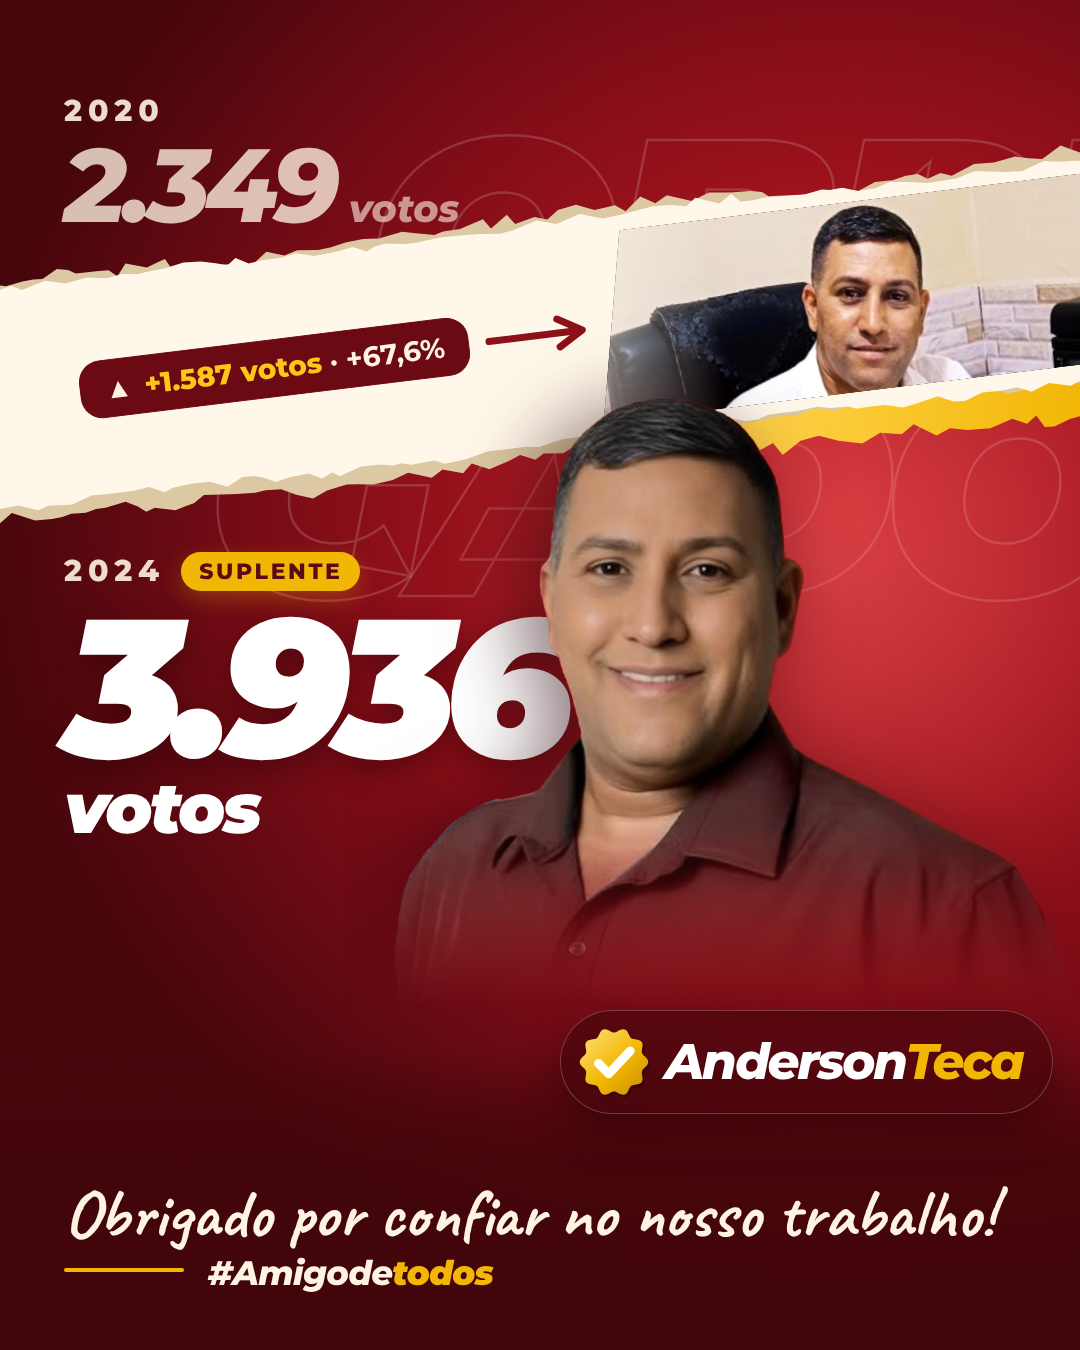
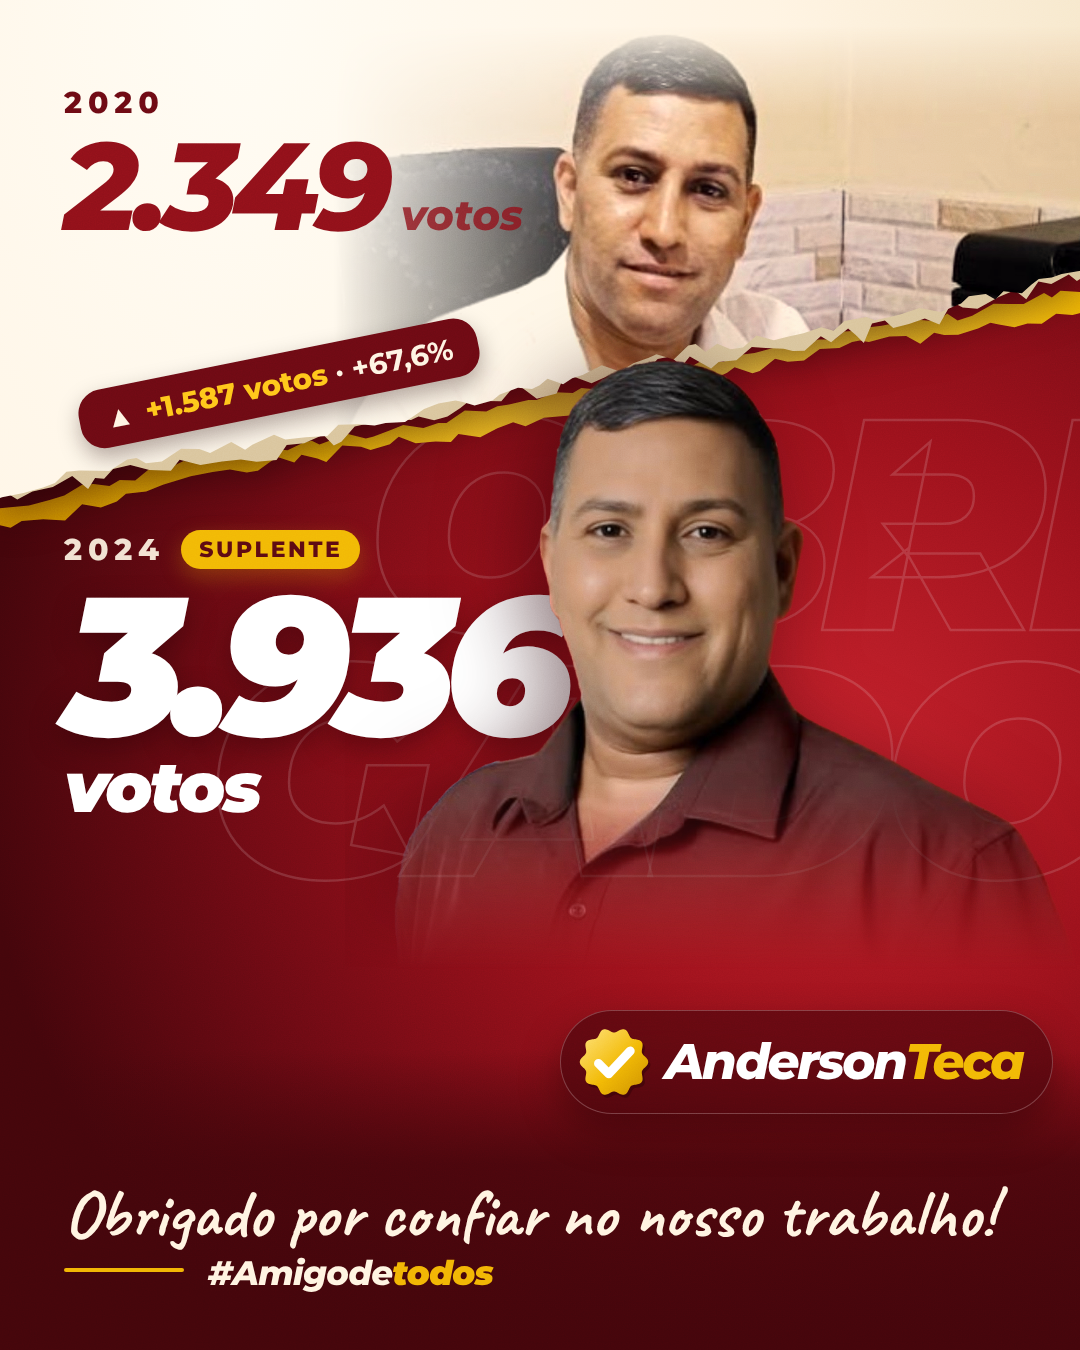
Anderson Teca v6: corte diagonal divide 2020 (papel) e 2024 (vinho), foto de 2020 esfumaçada
Claude-Session: https://claude.ai/code/session_01Y4FBjftjKYjL6a6dxycj4C

diff --git a/artes-clientes/anderson-teca/arte.html b/artes-clientes/anderson-teca/arte.html
@@ -2,51 +2,43 @@
 <html lang="pt-BR"><head><meta charset="utf-8">
 <link href="https://fonts.googleapis.com/css2?family=Caveat:wght@700&family=Montserrat:ital,wght@0,500;0,700;0,800;1,800;1,900&display=swap" rel="stylesheet">
 <style>
-  :root { --wine:#5A0A12; --crim:#8E1019; --red:#B5141F; --gold:#F2B705; --cream:#FFF4E2 }
+  :root { --wine:#5A0A12; --crim:#8E1019; --gold:#F2B705; --cream:#FFF4E2 }
   * { box-sizing:border-box; margin:0; padding:0 }
   html,body { width:1080px; overflow:hidden; background:var(--wine); font-family:'Montserrat',sans-serif; color:#fff }
   #art { position:relative; width:1080px; overflow:hidden;
-    background:radial-gradient(80% 60% at 78% 38%, #C2202A 0%, #9A111B 38%, #6B0A13 72%, #42050B 100%) }
+    background:radial-gradient(80% 60% at 78% 55%, #C2202A 0%, #9A111B 38%, #6B0A13 72%, #42050B 100%) }
   .abs { position:absolute }
-  #grain { position:absolute; inset:0; opacity:.2; mix-blend-mode:overlay; pointer-events:none }
-  #ghost { right:-40px; font:italic 900 300px/.82 'Montserrat'; letter-spacing:-.05em; color:transparent; -webkit-text-stroke:2.5px rgba(255,255,255,.16); white-space:nowrap; text-align:right }
-  #glow { width:900px; height:900px; border-radius:50%; background:radial-gradient(circle, rgba(255,120,110,.35), rgba(255,120,110,0) 62%) }
-  #me { z-index:3; width:760px; -webkit-mask-image:linear-gradient(180deg,#000 72%,transparent 97%); mask-image:linear-gradient(180deg,#000 72%,transparent 97%);
+  #grain { position:absolute; inset:0; opacity:.2; mix-blend-mode:overlay; pointer-events:none; z-index:6 }
+  #ghost { z-index:0; right:-40px; font:italic 900 300px/.82 'Montserrat'; letter-spacing:-.05em; color:transparent; -webkit-text-stroke:2.5px rgba(255,255,255,.14); white-space:nowrap; text-align:right }
+  /* ---- zona de 2020: do corte até o topo, tudo na cor do papel ---- */
+  #goldW, #paperW { position:absolute; left:0; top:0; width:1080px }
+  #goldW { z-index:1 } #paperW { z-index:2; filter:drop-shadow(0 14px 20px rgba(30,0,4,.55)) }
+  #gold { position:absolute; inset:0; background:linear-gradient(90deg,#C98A00,#F2B705 30%,#FFD24A 65%,#F2B705) }
+  #pBack, #paper { position:absolute; inset:0 }
+  #pBack { background:#D9C49B }
+  #paper { background:radial-gradient(90% 120% at 22% 0%, #FFFCF4 0%, #FFF4E2 55%, #F4E3C3 100%); overflow:hidden }
+  #p20img { position:absolute; display:block; mix-blend-mode:multiply; filter:contrast(1.06) saturate(1.08) sepia(.1);
+    -webkit-mask-image:linear-gradient(90deg,transparent 14%,#000 46%), linear-gradient(180deg,transparent 0,#000 13%), linear-gradient(0deg,transparent 0,#000 6%);
+    -webkit-mask-composite:source-in; mask-image:linear-gradient(90deg,transparent 14%,#000 46%), linear-gradient(180deg,transparent 0,#000 13%), linear-gradient(0deg,transparent 0,#000 6%); mask-composite:intersect }
+  #top { position:absolute; left:64px; top:0; width:560px }
+  #top .y { font:800 30px/1 'Montserrat'; letter-spacing:.2em; color:#6B0A13 }
+  #top .n20 { display:flex; align-items:baseline; gap:14px; margin-top:12px }
+  #top .n20 .n { font:italic 800 124px/.9 'Montserrat'; letter-spacing:-.05em; color:#8E1019 }
+  #top .n20 .v { font:italic 800 42px/1 'Montserrat'; color:#8E1019; opacity:.8 }
+  #chip { position:absolute; left:80px; display:inline-flex; align-items:center; gap:12px; padding:15px 26px; border-radius:24px; background:#6B0A13; color:var(--cream); font:700 29px/1 'Montserrat'; transform-origin:0 50%; white-space:nowrap; box-shadow:0 10px 22px rgba(30,0,4,.35) }
+  #chip b { font-weight:800; color:#FFC61A }
+  /* ---- zona atual (2024), em vinho ---- */
+  #me { z-index:3; width:860px; -webkit-mask-image:linear-gradient(180deg,#000 72%,transparent 97%); mask-image:linear-gradient(180deg,#000 72%,transparent 97%);
     filter:drop-shadow(-24px 10px 40px rgba(40,0,6,.55)) saturate(1.04) }
-  /* logo colada na foto */
+  #col { z-index:2; left:64px; width:560px }
+  .yr { display:flex; align-items:center; gap:16px }
+  .yr .y { font:800 30px/1 'Montserrat'; letter-spacing:.2em; color:rgba(255,244,226,.92) }
+  .st { padding:9px 18px 8px; border-radius:30px; background:var(--gold); color:var(--wine); font:800 22px/1 'Montserrat'; letter-spacing:.12em; text-transform:uppercase; box-shadow:0 8px 22px rgba(242,183,5,.25) }
+  .n24 .n { font:italic 900 196px/.84 'Montserrat'; letter-spacing:-.06em; color:#fff; text-shadow:0 10px 30px rgba(40,0,6,.45); margin-top:14px; white-space:nowrap }
+  .n24 .v { font:italic 900 70px/1 'Montserrat'; letter-spacing:-.04em; color:#fff; margin-top:4px }
   #logo { z-index:5; display:flex; align-items:center; gap:14px; padding:14px 30px 14px 16px; border-radius:60px; background:rgba(66,5,11,.62); backdrop-filter:blur(14px); border:1.5px solid rgba(255,255,255,.22); box-shadow:0 18px 40px rgba(30,0,4,.45) }
   #logo .wm { font:italic 800 50px/1 'Montserrat'; letter-spacing:-.045em; color:#fff; white-space:nowrap }
   #logo .wm b { color:var(--gold); font-weight:800 }
-  /* coluna de dados */
-  #col { left:64px; width:560px }
-  .yr { display:flex; align-items:center; gap:16px }
-  .yr .y { font:800 30px/1 'Montserrat'; letter-spacing:.2em; color:rgba(255,244,226,.9) }
-  .st { padding:9px 18px 8px; border-radius:30px; font:800 22px/1 'Montserrat'; letter-spacing:.12em; text-transform:uppercase }
-  .st.off { border:2px solid rgba(255,244,226,.45); color:rgba(255,244,226,.75) }
-  .st.on { background:var(--gold); color:var(--wine); box-shadow:0 8px 22px rgba(242,183,5,.25) }
-  .n20 { display:flex; align-items:baseline; gap:14px; margin-top:12px }
-  .n20 .n { font:italic 800 104px/.9 'Montserrat'; letter-spacing:-.05em; color:rgba(255,244,226,.78) }
-  .n20 .v { font:italic 800 38px/1 'Montserrat'; color:rgba(255,244,226,.6) }
-  .gz { position:relative; height:320px }
-  .gz .chip { position:absolute; left:16px; margin:0; transform-origin:0 50% }
-  .gz .ar { position:absolute; transform-origin:0 50% }
-  .n24 .n { font:italic 900 196px/.84 'Montserrat'; letter-spacing:-.06em; color:#fff; text-shadow:0 10px 30px rgba(40,0,6,.45); margin-top:14px; white-space:nowrap }
-  .n24 .v { font:italic 900 70px/1 'Montserrat'; letter-spacing:-.04em; color:#fff; margin-top:4px }
-  .chip { position:relative; z-index:4; display:inline-flex; align-items:center; gap:12px; margin-top:26px; padding:14px 24px; border-radius:22px; background:rgba(255,244,226,.1); border:1.5px solid rgba(255,244,226,.28); font:700 28px/1 'Montserrat'; color:var(--cream) }
-  .chip b { font-weight:800; color:var(--gold) }
-  /* faixa diagonal: camadas de papel + textos que trocam de cor sobre ela */
-  .layer { position:absolute; left:0; top:0; width:1080px }
-  #bBack { background:#DCC9A3 } #bSheet { background:#FFF8EA } #bGold { background:linear-gradient(90deg,#C98A00,#F2B705 35%,#FFD24A 70%,#F2B705) }
-  #bPhoto { position:absolute; overflow:hidden; background:#000; transform-origin:50% 50% }
-  #bPhoto img { position:absolute; inset:0; width:100%; height:100%; object-fit:cover; object-position:50% 0%; display:block; filter:contrast(1.05) saturate(1.06) }
-  #bPhoto::after { content:''; position:absolute; inset:0; background:linear-gradient(90deg,rgba(255,248,234,.55),rgba(255,248,234,0) 22%) }
-  #lightW, #darkW { position:absolute; left:0; top:0; width:1080px; z-index:2 }
-  .dk .y { color:#6B0A13 } .dk .st.on { background:#6B0A13; color:#F2B705; box-shadow:none }
-  .dk .n20 .n { color:#8E1019 } .dk .n20 .v { color:#8E1019; opacity:.75 }
-  .dk .n24 .n { color:#5A0A12; text-shadow:none } .dk .n24 .v { color:#5A0A12 }
-  .dk .chip { background:#6B0A13; border-color:#6B0A13; color:#FFF4E2 } .dk .chip b { color:#FFC61A }
-  .dk .ar path { stroke:#8E1019 }
-  /* rodapé */
   #foot { z-index:4; left:0; width:1080px; background:linear-gradient(180deg,rgba(66,5,11,0),rgba(66,5,11,.85) 38%,#42050B) }
   #thanks { z-index:6; left:64px; right:64px; font:700 68px/1 'Caveat'; color:var(--cream); white-space:nowrap }
   #rule { z-index:6; left:64px; height:4px; width:120px; border-radius:2px; background:var(--gold) }
@@ -56,18 +48,18 @@
 <div id="art">
   <svg id="grain" width="1080" height="1920"><filter id="n"><feTurbulence type="fractalNoise" baseFrequency=".85" numOctaves="2" seed="7"/><feColorMatrix values="0 0 0 0 1  0 0 0 0 1  0 0 0 0 1  0 0 0 .55 0"/></filter><rect width="100%" height="100%" filter="url(#n)"/></svg>
   <div class="abs" id="ghost">OBRI<br>GADO</div>
-  <div class="abs" id="glow"></div>
+  <div id="goldW"><div id="gold"></div></div>
+  <div id="paperW"><div id="pBack"></div><div id="paper">
+    <img id="p20img" src="work/anderson2020.jpg">
+    <div id="top"><div class="y">2020</div><div class="n20"><span class="n">2.349</span><span class="v">votos</span></div></div>
+    <div id="chip">▲ <span><b>+1.587 votos</b> · +67,6%</span></div>
+  </div></div>
   <img class="abs" id="me" src="work/anderson.png">
   <div class="abs" id="foot"></div>
-  <div id="lightW"><div class="abs" id="col">
-    <div class="yr"><span class="y">2020</span></div>
-    <div class="n20"><span class="n">2.349</span><span class="v">votos</span></div>
-    <div class="gz"><div class="chip">▲ <span><b>+1.587 votos</b> · +67,6%</span></div><svg class="ar" width="110" height="40" viewBox="0 0 110 40"><path d="M4 20 H92" stroke="#F2B705" stroke-width="7" stroke-linecap="round"/><path d="M74 6 L98 20 L74 34" fill="none" stroke="#F2B705" stroke-width="7" stroke-linecap="round" stroke-linejoin="round"/></svg></div>
-    <div class="yr"><span class="y">2024</span><span class="st on">Suplente</span></div>
+  <div class="abs" id="col">
+    <div class="yr"><span class="y">2024</span><span class="st">Suplente</span></div>
     <div class="n24"><div class="n">3.936</div><div class="v">votos</div></div>
-  </div></div>
-  <div id="darkW" class="dk"></div>
-  <div class="layer" id="bBack" style="z-index:1"></div><div class="layer" id="bGold" style="z-index:1"></div><div class="layer" id="bSheet" style="z-index:1"></div><div id="bPhoto" style="z-index:1"><img src="work/anderson2020.jpg"></div>
+  </div>
   <div class="abs" id="logo"><svg width="74" height="74" viewBox="-50 -50 100 100" id="check"></svg><div class="wm">Anderson<b>Teca</b></div></div>
   <div class="abs" id="thanks">Obrigado por confiar no nosso trabalho!</div>
   <div class="abs" id="rule"></div>
@@ -75,58 +67,37 @@
 </div>
 <script>
 const F = new URLSearchParams(location.search).get('f') || 'feed'
-const L = { feed:  { band:{ ang:-7, T:220, px:600, pw:560 }, H:1350, ghost:120, glow:[380, 120], me:[345, 300, 860],  logo:[560, 1010], col:96,  foot:[1050, 300], thanks:1180, rule:1268, tag:1256 },
-            story: { band:{ ang:-7, T:220, px:600, pw:560 }, H:1920, ghost:260, glow:[340, 520], me:[330, 700, 900], logo:[540, 1420], col:290, foot:[1480, 440], thanks:1630, rule:1720, tag:1708 } }[F]
+const L = { feed:  { H:1350, cut:[500, 270],  ghost:400, photo:[205, 26, 920], top:[88],  col:530, me:[345, 262, 860],  logo:[560, 1010], foot:[1050, 300], thanks:1180, rule:1268, tag:1256 },
+            story: { H:1920, cut:[720, 470],  ghost:760, photo:[120, 70, 1010],  top:[290], col:752, me:[276, 418, 1100], logo:[540, 1420], foot:[1480, 440], thanks:1630, rule:1720, tag:1708 } }[F]
 const $ = id => document.getElementById(id), art = $('art')
-art.style.height = L.H + 'px'; document.body.style.height = L.H + 'px'
+const H = L.H; art.style.height = H + 'px'; document.body.style.height = H + 'px'
+for (const id of ['goldW', 'paperW']) $(id).style.height = H + 'px'
 $('ghost').style.top = L.ghost + 'px'
-$('glow').style.left = L.glow[0] + 'px'; $('glow').style.top = L.glow[1] + 'px'
-$('me').style.left = L.me[0] + 'px'; $('me').style.top = L.me[1] + 'px'; $('me').style.width = L.me[2] + 'px'
-$('logo').style.left = L.logo[0] + 'px'; $('logo').style.top = L.logo[1] + 'px'
+// ---- o corte diagonal, de uma ponta à outra ----
+let sd = 5; const rnd = () => (sd = (sd * 16807) % 2147483647) / 2147483647
+const slope = (L.cut[1] - L.cut[0]) / 1140, cutY = x => L.cut[0] + (x + 30) * slope
+const edge = (seed, amp, off, x0 = -30, x1 = 1110) => { sd = seed; const pts = []
+  for (let x = x0; x <= x1; x += 7 + rnd() * 15) pts.push([x, cutY(x) + off + (rnd() - .5) * amp + Math.sin(x / 85 + seed) * amp * .3]); return pts }
+const poly = pts => 'polygon(' + pts.map(([x, y]) => x.toFixed(1) + 'px ' + y.toFixed(1) + 'px').join(',') + ')'
+const above = pts => pts.concat([[1130, -40], [-50, -40]])
+$('paper').style.clipPath = poly(above(edge(41, 13, 0)))
+$('pBack').style.clipPath = poly(above(edge(17, 20, 9)))
+{ const a = edge(77, 14, 30, -30, 1110), b = edge(78, 10, 12, -30, 1110).reverse(); $('gold').style.clipPath = poly(a.concat(b)) }
+// foto de 2020 diluída no papel
+{ const [l, t, w] = L.photo, im = $('p20img'); im.style.cssText += `left:${l}px;top:${t}px;width:${w}px` }
+// textos de 2020 (sobre o papel, em vinho) + chip ao longo do corte
+$('top').style.top = L.top[0] + 'px'
+{ const th = Math.atan(slope), chip = $('chip'); chip.style.transform = `rotate(${th}rad)`; chip.style.top = (cutY(80) - 56 - 28) + 'px' }
+// 2024 e foto atual
 $('col').style.top = L.col + 'px'
+{ const [l, t, w] = L.me, m = $('me'); m.style.left = l + 'px'; m.style.top = t + 'px'; m.style.width = w + 'px' }
+$('logo').style.left = L.logo[0] + 'px'; $('logo').style.top = L.logo[1] + 'px'
 $('foot').style.top = L.foot[0] + 'px'; $('foot').style.height = L.foot[1] + 'px'
 $('thanks').style.top = L.thanks + 'px'; $('rule').style.top = L.rule + 'px'; $('tag').style.top = L.tag + 'px'
-// selo de check da campanha (medalhão dourado ondulado)
+// selo de check da campanha
 const scallop = (R, amp, n) => { let d = ''; for (let i = 0; i <= 240; i++) { const a = i / 240 * Math.PI * 2, r = R * (1 + amp * Math.cos(n * a)); d += (i ? 'L' : 'M') + (r * Math.cos(a)).toFixed(2) + ' ' + (r * Math.sin(a)).toFixed(2) } return d + 'Z' }
 $('check').innerHTML = `<defs><linearGradient id="g1" x1="0" y1="0" x2="1" y2="1"><stop offset="0" stop-color="#FFE27A"/><stop offset=".55" stop-color="#F2B705"/><stop offset="1" stop-color="#C98A00"/></linearGradient></defs>
   <path d="${scallop(43, .075, 10)}" fill="#2a0306" opacity=".45" transform="translate(3 4)"/><path d="${scallop(43, .075, 10)}" fill="url(#g1)"/>
   <path d="M-21 2 L-7 16 L22 -15" fill="none" stroke="#fff" stroke-width="12" stroke-linecap="round" stroke-linejoin="round"/>`
-// monta o recorte: papel rasgado (duas camadas) + foto + fita
-let sd = 5; const rnd = () => (sd = (sd * 16807) % 2147483647) / 2147483647
-const tornPoly = (amp, step) => { const pts = []; const N = 14
-  for (let x = 0; x <= 100; x += step + rnd() * step) pts.push([x, (rnd() - .5) * amp])
-  for (let y = 0; y <= 100; y += step * 1.6 + rnd() * step) pts.push([100 + (rnd() - .5) * amp, y])
-  for (let x = 100; x >= 0; x -= step + rnd() * step) pts.push([x, 100 + (rnd() - .5) * amp])
-  for (let y = 100; y >= 0; y -= step * 1.6 + rnd() * step) pts.push([(rnd() - .5) * amp, y])
-  return 'polygon(' + pts.map(([x, y]) => x.toFixed(1) + '% ' + y.toFixed(1) + '%').join(',') + ')' }
-// ---------- faixa diagonal de ponta a ponta ----------
-function buildBand() { const B = L.band, th = B.ang * Math.PI / 180, ca = Math.cos(th), sa = Math.sin(th)
-  const gz = $('col').querySelector('.gz'), chip = gz.querySelector('.chip'), ar = gz.querySelector('.ar')
-  const gr = gz.getBoundingClientRect(), artTop = art.getBoundingClientRect().top, mid = gr.height / 2
-  B.y60 = (gr.top - artTop) + mid - 20 * Math.tan(th)            // a linha central passa no meio da zona do crescimento
-  chip.style.top = (mid - chip.offsetHeight / 2) + 'px'; chip.style.transform = `rotate(${B.ang}deg)`
-  const cw = chip.offsetWidth + 16; ar.style.left = (16 + cw * ca) + 'px'; ar.style.top = (mid + cw * sa - 20) + 'px'; ar.style.transform = `rotate(${B.ang}deg)`
-  const cy = x => B.y60 + (x - 60) * Math.tan(th)                 // linha central
-  const nx = -sa, ny = ca                                          // normal
-  const edge = (T, off, amp, seed, x0, x1) => { sd = seed; const top = [], bot = []
-    for (let x = x0; x <= x1; x += 8 + rnd() * 16) { const j = () => (rnd() - .5) * amp + Math.sin(x / 90 + seed) * amp * .35
-      top.push([x + nx * (-T / 2 + off + j()), cy(x) + ny * (-T / 2 + off + j())]); bot.push([x + nx * (T / 2 + off + j()), cy(x) + ny * (T / 2 + off + j())]) }
-    return top.concat(bot.reverse()) }
-  const poly = pts => 'polygon(' + pts.map(([x, y]) => x.toFixed(1) + 'px ' + y.toFixed(1) + 'px').join(',') + ')'
-  const path = pts => pts.map(([x, y], i) => (i ? 'L' : 'M') + x.toFixed(1) + ' ' + y.toFixed(1)).join(' ') + ' Z'
-  const sheet = edge(B.T, 0, 9, 41, -80, 1160), back = edge(B.T + 18, 4, 14, 17, -80, 1160)
-  const gold = edge(34, B.T / 2 + 18, 14, 77, 640, 1160)
-  const H = L.H; for (const id of ['bBack', 'bGold', 'bSheet']) $(id).style.height = H + 'px'
-  $('bBack').style.clipPath = poly(back); $('bGold').style.clipPath = poly(gold); $('bSheet').style.clipPath = poly(sheet)
-  // foto de 2020 dentro da faixa, encostada na direita, com a ponta esquerda cortada na diagonal
-  const ph = $('bPhoto'), w = B.pw, h = B.T - 30, cx = B.px + w / 2 - 10
-  ph.style.cssText += `left:${cx - w / 2}px;top:${cy(cx) - h / 2}px;width:${w}px;height:${h}px;transform:rotate(${B.ang}deg);clip-path:polygon(7% 0,100% 0,100% 100%,0 100%)`
-  // textos: claros fora da faixa, vinho dentro dela (o mesmo texto em duas camadas, recortadas pelo papel)
-  const full = `M-10 -10 H1090 V${H + 10} H-10 Z `
-  const lw = $('lightW'), dw = $('darkW'); lw.style.height = dw.style.height = H + 'px'
-  lw.style.clipPath = `path(evenodd, '${full}${path(sheet)}')`
-  dw.style.clipPath = `path('${path(sheet)}')`
-  const dc = $('col').cloneNode(true); dc.removeAttribute('id'); dw.appendChild(dc); dc.style.top = $('col').style.top; dc.style.left = '64px'; dc.style.width = '560px' }
-
-window.ready = document.fonts.ready.then(() => { buildBand(); return $('me').decode() })
+window.ready = document.fonts.ready.then(() => Promise.all([$('me').decode(), $('p20img').decode()]))
 </script></body></html>
